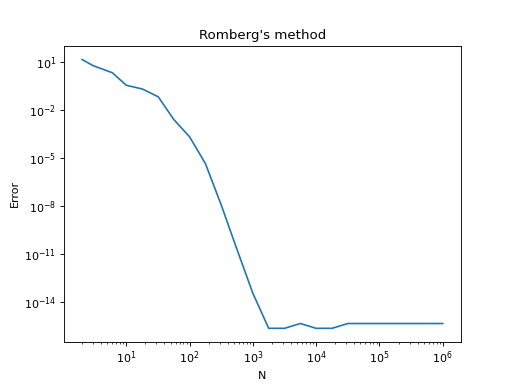
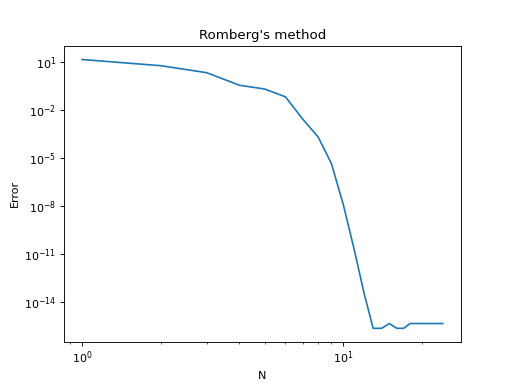
Deploying to master from  @ 6846af7ab3932a0f3cbeb277f244db6fea695186 🚀

diff --git a/FunctionIntegrator/index.html b/FunctionIntegrator/index.html
@@ -317,7 +317,7 @@ ylabel(<span class=hljs-string >&quot;Error&quot;</span>)
 PyPlot.savefig(joinpath(<span class=hljs-meta >@OUTPUT</span>, <span class=hljs-string >&quot;rectangle_right_error_plot.png&quot;</span>), dpi=<span class=hljs-number >80</span>)
 PyPlot.figure(<span class=hljs-number >13</span>)
 PyPlot.clf()
-PyPlot.plot(nc, rombergs_error)
+PyPlot.plot(<span class=hljs-number >1</span>:<span class=hljs-number >24</span>, rombergs_error)
 PyPlot.title(<span class=hljs-string >&quot;Romberg&#x27;s method&quot;</span>)
 xscale(<span class=hljs-string >&quot;log&quot;</span>)
 xlabel(<span class=hljs-string >&quot;N&quot;</span>)
